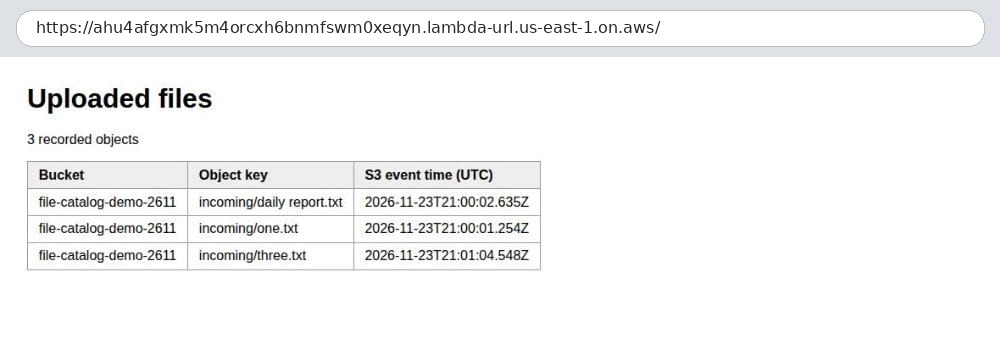
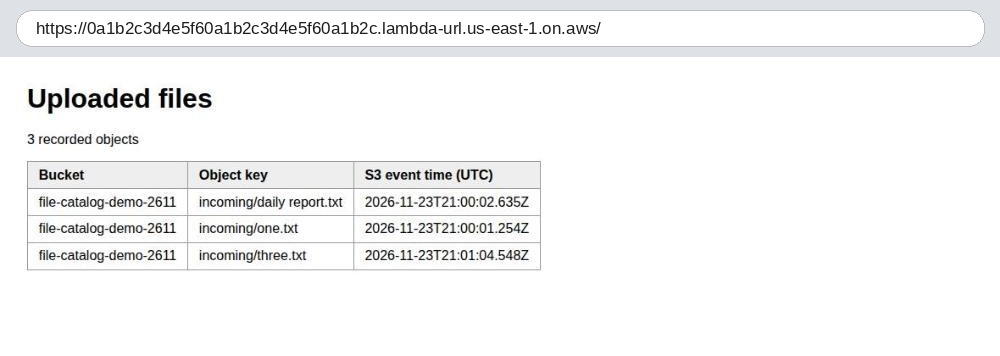
3.13 Advanced DynamoDB: lambda-code folder, page fixes, Function URL masked in Part 4 screenshots

Changed region(s): [[0.031, 0.0618, 0.682, 0.0927]]

diff --git a/3.13-databases/advanced-dynamodb/part-5-terraformer/README.md b/3.13-databases/advanced-dynamodb/part-5-terraformer/README.md
@@ -127,8 +127,8 @@ export LAB_DIR=~/aws/3.13-databases/advanced-dynamodb   # your clone of the cour
 terraform state replace-provider -auto-approve registry.terraform.io/-/aws registry.terraform.io/hashicorp/aws
 terraform init
 terraform plan
-zip -j writer.zip "$LAB_DIR/code/writer/lambda_function.py"
-zip -j reader.zip "$LAB_DIR/code/reader/lambda_function.py"
+zip -j writer.zip "$LAB_DIR/lambda-code/writer/lambda_function.py"
+zip -j reader.zip "$LAB_DIR/lambda-code/reader/lambda_function.py"
 ```
 
 Terraformer **doesn't export the function code.** The resource has no `filename`, so the plan fails. Zip the handlers from the repo, then add one line at the top of each function's block in `lambda_function.tf`:
@@ -175,7 +175,7 @@ The repo's [`terraform/`](../terraform/) folder is the same lab written by hand:
 |---|---|
 | [`storage.tf`](../terraform/storage.tf) | The table and the bucket |
 | [`iam.tf`](../terraform/iam.tf) | The two roles, the log policy attachments and the two inline policies, each scoped to `aws_dynamodb_table.catalog.arn` |
-| [`lambda.tf`](../terraform/lambda.tf) | The code zipped from `../code` with `archive_file`, the log groups, both functions, the S3 invoke permission, the **bucket notification** (`depends_on` the permission, because S3 tests it when the notification is saved), the **Function URL** and its invoke permission |
+| [`lambda.tf`](../terraform/lambda.tf) | The code zipped from `../lambda-code` with `archive_file`, the log groups, both functions, the S3 invoke permission, the **bucket notification** (`depends_on` the permission, because S3 tests it when the notification is saved), the **Function URL** and its invoke permission |
 | [`variables.tf`](../terraform/variables.tf), [`outputs.tf`](../terraform/outputs.tf) | `lab_name` and `region` in; `bucket_name`, `table_name` and `report_url` out |
 
 Deploy it with a **new** name, so it can't collide with the Console stack:

diff --git a/3.13-databases/advanced-dynamodb/README.md b/3.13-databases/advanced-dynamodb/README.md
@@ -24,8 +24,8 @@ Each chapter has its own page and video.
 
 | Path | What it is |
 |---|---|
-| [`code/writer/lambda_function.py`](code/writer/lambda_function.py) | The writer handler (Part 3) |
-| [`code/reader/lambda_function.py`](code/reader/lambda_function.py) | The reader handler (Part 4) |
+| [`lambda-code/writer/lambda_function.py`](lambda-code/writer/lambda_function.py) | The writer handler (Part 3) |
+| [`lambda-code/reader/lambda_function.py`](lambda-code/reader/lambda_function.py) | The reader handler (Part 4) |
 | [`terraform/`](terraform/) | The complete solution as Terraform: the same 16 resources as Parts 2–4, in one `terraform apply` |
 
 > 💰 **Cost:** a few cents at most. DynamoDB on-demand, Lambda, S3 and CloudWatch Logs for a handful of test files stay inside the AWS Free Tier. Delete everything at the end ([Part 5, clean up](part-5-terraformer/README.md#clean-up)).

diff --git a/3.13-databases/advanced-dynamodb/part-1-intro/README.md b/3.13-databases/advanced-dynamodb/part-1-intro/README.md
@@ -43,7 +43,7 @@ On a fresh deployment:
 
 You'll use:
 
-- The handlers in [`code/`](../code/): the [writer](../code/writer/lambda_function.py) and the [reader](../code/reader/lambda_function.py). You don't need to write Python. Each one is about 25 lines, and the parts explain them in a sentence or two.
+- The handlers in [`lambda-code/`](../lambda-code/): the [writer](../lambda-code/writer/lambda_function.py) and the [reader](../lambda-code/reader/lambda_function.py). You don't need to write Python. Each one is about 25 lines, and the parts explain them in a sentence or two.
 - **Python 3.14** for both functions.
 - One unique lowercase name for the bucket and the table, for example `file-catalog-<your-name>-<random>`. The bucket name must be unique across all of S3; the table name only in your account and Region.
 

diff --git a/3.13-databases/advanced-dynamodb/part-4-reader-function-url/README.md b/3.13-databases/advanced-dynamodb/part-4-reader-function-url/README.md
@@ -52,7 +52,7 @@ Two roles, each with only what its function does: the writer can't read the tabl
    With **NONE**, the Console adds two statements to the function's resource policy, shown under *View policy statement*: `lambda:InvokeFunctionUrl` for everyone (`"Principal": "*"`), and `lambda:InvokeFunction` for calls that come through the URL. A public URL needs both.
 
 3. Choose **Create Event Function**.
-4. On the **Code** tab, replace `lambda_function.py` with the [reader code](../code/reader/lambda_function.py) and choose **Deploy**.
+4. On the **Code** tab, replace `lambda_function.py` with the [reader code](../lambda-code/reader/lambda_function.py) and choose **Deploy**.
 
    ![The code editor with the reader code, and the Deploy button](images/p4-04-reader-code-deploy.jpg)
 

diff --git a/3.13-databases/advanced-dynamodb/part-3-s3-writer-lambda/README.md b/3.13-databases/advanced-dynamodb/part-3-s3-writer-lambda/README.md
@@ -75,7 +75,7 @@ The role now has two policies: the AWS managed one for logs, and your inline one
 
    ![Additional settings: Custom execution role on, execution role file-catalog-demo-2611-writer](images/p3-10-writer-function-role.jpg)
 
-4. On the **Code** tab, replace all of `lambda_function.py` with the [writer code](../code/writer/lambda_function.py) and choose **Deploy**. The handler stays `lambda_function.lambda_handler`, the default.
+4. On the **Code** tab, replace all of `lambda_function.py` with the [writer code](../lambda-code/writer/lambda_function.py) and choose **Deploy**. The handler stays `lambda_function.lambda_handler`, the default.
 
    ![The code editor with the writer code, and the Deploy button](images/p3-11-writer-code-deploy.jpg)
 
